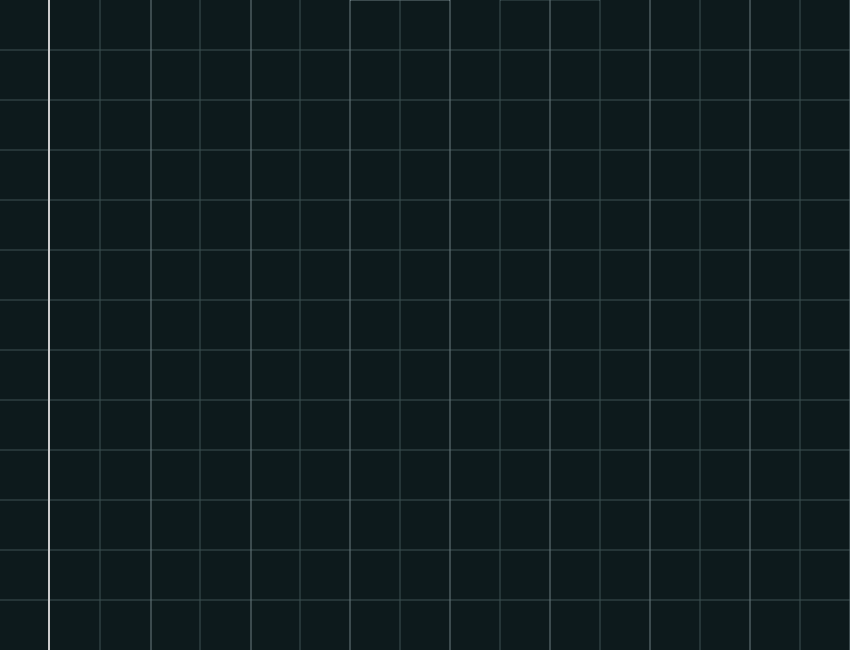
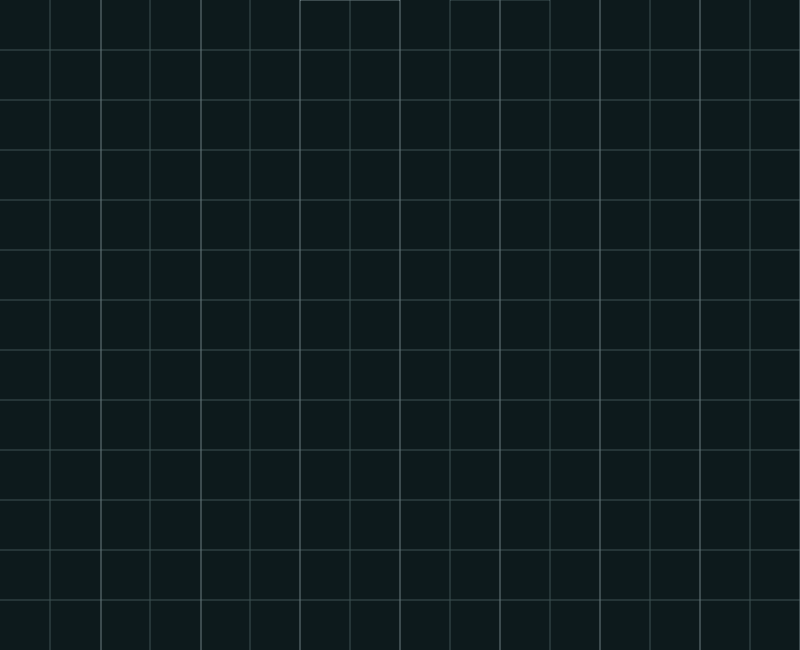
removed the labels from the sequence frame to simplify mathematics. The labels and surrounding buttons should be in its own frame

diff --git a/src/ui/SequenceFrame.cpp b/src/ui/SequenceFrame.cpp
@@ -10,22 +10,21 @@
 SequenceFrame::SequenceFrame(std::string bundlePath, const double x, const double y, const double width, const double height):
     Frame(x,y, width, height),
     bundlePath_(bundlePath),
-    noteLabels_(),
     notes_()
 {
     // define frame properties
     setClickable(true);
     setDraggable(false);
 
-    // define labels
-    for ( size_t i = 0; i < noteLabels_.size(); ++i ){
-        add(&noteLabels_[i]);
-        double ypos = UI_SEQUENCE_FRAME_HEIGHT - UI_SEQUENCE_FRAME_LABEL_HEIGHT * (i + 1);
-        noteLabels_[i].moveTo(0,ypos);
-        noteLabels_[i].resize(UI_SEQUENCE_FRAME_LABEL_WIDTH, UI_SEQUENCE_FRAME_LABEL_HEIGHT);
-        noteLabels_[i].setText(std::to_string(i));
+    // // define labels
+    // for ( size_t i = 0; i < noteLabels_.size(); ++i ){
+    //     add(&noteLabels_[i]);
+    //     double ypos = UI_SEQUENCE_FRAME_HEIGHT - UI_SEQUENCE_FRAME_LABEL_HEIGHT * (i + 1);
+    //     noteLabels_[i].moveTo(0,ypos);
+    //     noteLabels_[i].resize(UI_SEQUENCE_FRAME_LABEL_WIDTH, UI_SEQUENCE_FRAME_LABEL_HEIGHT);
+    //     noteLabels_[i].setText(std::to_string(i));
 
-    }
+    // }
 
     // prep SequenceNotes. All are hidden and off screen until click action executed
     for ( size_t i = 0; i < notes_.size(); ++i ){
@@ -119,7 +118,7 @@ void SequenceFrame::populateNote(BEvents::PointerEvent* ev){
         auto dest = getNearestSlotPoint(pt);
         notes_[i].setStartIndex(dest.x);
         notes_[i].setNoteIndex(dest.y);
-        pt.x = static_cast<int>(dest.x) * UI_SEQUENCE_NOTE_UNIT_WIDTH + UI_SEQUENCE_FRAME_LABEL_WIDTH ;
+        pt.x = static_cast<int>(dest.x) * UI_SEQUENCE_NOTE_UNIT_WIDTH ;
         pt.y = UI_SEQUENCE_FRAME_HEIGHT - UI_SEQUENCE_NOTE_UNIT_HEIGHT * (static_cast<int>(dest.y) + 1);
         notes_[i].setPosition(pt);
         notes_[i].show();
@@ -142,8 +141,6 @@ void SequenceFrame::setActiveNote(SequenceNote* note){
 }
 
 SequenceNote* SequenceFrame::getNoteAtPoint(BUtilities::Point<> pt){
-    if (pt.x <= UI_SEQUENCE_FRAME_LABEL_WIDTH ) return nullptr ;
-
     for ( size_t i = 0 ; i < notes_.size() ; ++i ){
         if ( notes_[i].isVisible() ){
             BUtilities::Point<> np = notes_[i].getPosition() ;
@@ -159,8 +156,7 @@ SequenceNote* SequenceFrame::getNoteAtPoint(BUtilities::Point<> pt){
 }
 
 BUtilities::Point<> SequenceFrame::getNearestSlotPoint(BUtilities::Point<> pt) const {
-    pt.x = ( pt.x - UI_SEQUENCE_FRAME_LABEL_WIDTH ) / UI_SEQUENCE_NOTE_UNIT_WIDTH ;
-    pt.y = noteLabels_.size() - 1 - static_cast<int>( pt.y / UI_SEQUENCE_NOTE_UNIT_HEIGHT) ;
-
+    pt.x = pt.x / UI_SEQUENCE_NOTE_UNIT_WIDTH ;
+    pt.y = UI_SEQUENCE_FRAME_NUM_NOTES - 1 - static_cast<int>( pt.y / UI_SEQUENCE_NOTE_UNIT_HEIGHT) ;
     return pt ;
 }

diff --git a/src/ui/SequenceNote.hpp b/src/ui/SequenceNote.hpp
@@ -21,19 +21,13 @@ private:
     int startTime_ ; // time index for start of note
 
     bool dragEdit_ ; // track if we are in drag edit mode across BEvents
-    int dragUnits_ ; // track the new number of units present across drag actions
 
 public:
     // Constructors
 
     SequenceNote();
 
-    SequenceNote(
-        double x, double y,
-        double width = UI_SEQUENCE_NOTE_UNIT_WIDTH,
-        double height = UI_SEQUENCE_NOTE_UNIT_HEIGHT,
-        int nUnits = 1
-    );
+    SequenceNote(double x, double y, int nUnits = 1);
 
     /**
      * @brief get position

diff --git a/src/ui/SequenceFrame.hpp b/src/ui/SequenceFrame.hpp
@@ -33,7 +33,7 @@ class SequenceFrame :
 private:
     std::string bundlePath_ ;
     // BWidgets::Image wBgImage_ ;
-    std::array<BWidgets::Label, 13> noteLabels_ ; // contain full chromatic scale including octave
+    // std::array<BWidgets::Label, 13> noteLabels_ ; // contain full chromatic scale including octave
     std::array<SequenceNote,CONFIG_MAX_SEQUENCE_SIZE> notes_ ;
     BEvents::Event::EventType lastFrameEvent_ ;
 

diff --git a/src/ui/SequenceNote.cpp b/src/ui/SequenceNote.cpp
@@ -5,13 +5,12 @@
 #include "BStyles/Types/Fill.hpp"
 #include "ui/uiConfig.hpp"
 
-SequenceNote::SequenceNote(double x, double y, double width, double height, int nUnits):
+SequenceNote::SequenceNote(double x, double y, int nUnits):
     Button(),
     pos_(x,y),
     noteIndex_(0),
     startTime_(0),
-    dragEdit_(false),
-    dragUnits_(0)
+    dragEdit_(false)
 {
     // set properties
     setActivatable(true);

diff --git a/src/ui/uiConfig.hpp b/src/ui/uiConfig.hpp
@@ -42,4 +42,7 @@ constexpr int UI_SEQUENCE_FRAME_LABEL_HEIGHT = 50 ;
 constexpr int UI_SEQUENCE_NOTE_UNIT_WIDTH  = 50 ;
 constexpr int UI_SEQUENCE_NOTE_UNIT_HEIGHT = 50 ;
 
+constexpr int UI_SEQUENCE_FRAME_NUM_NOTES = 13 ;
+constexpr int UI_SEQUENCE_MAX_TIME_UNITS = 16 ;
+
 #endif // __UI_CONFIG_HPP_
